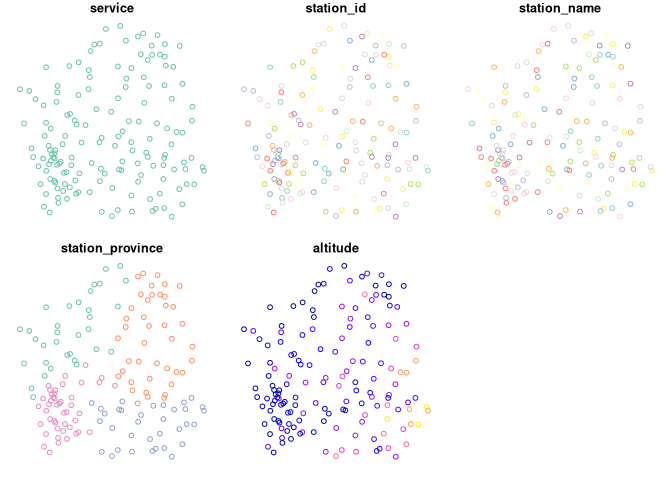
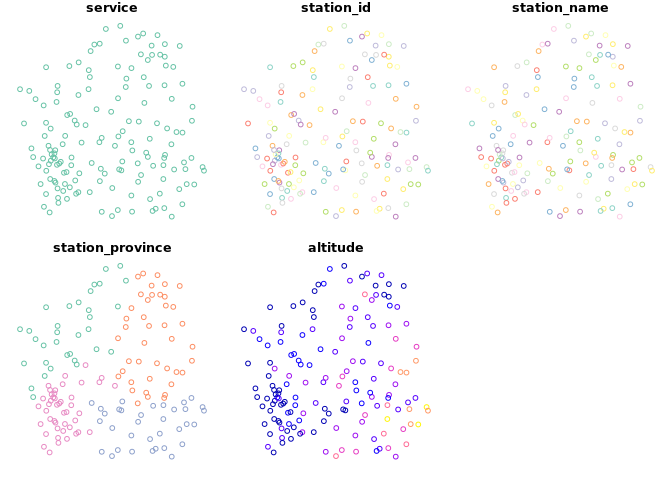
2022-05-24 04:55:33 automatic update

diff --git a/content/software/meteospain/index.md b/content/software/meteospain/index.md
@@ -12,8 +12,8 @@ tags:
 - data
 draft: false
 featured: false
-date: '2022-05-16'
-lastmod: '2022-05-16'
+date: '2022-05-24'
+lastmod: '2022-05-24'
 summary: Access to Spanish Meteorological Stations Services
 model_repository: ''
 data_repository: ''
@@ -23,30 +23,33 @@ links:
   url_source: https://github.com/emf-creaf/meteospain
   url_docs: https://emf-creaf.github.io/meteospain/
 ---
-# meteospain
+meteospain
+==========
 
 [![R-CMD-check](https://github.com/emf-creaf/meteospain/workflows/R-CMD-check/badge.svg)](https://github.com/emf-creaf/meteospain/actions)
 
 `meteospain` aims to offer access to different Spanish meteorological
 stations data in an uniform way.
 
-## Installation
+Installation
+------------
 
 `meteospain` is in CRAN, and can be installed as any other package:
 
-``` r
+``` {.r}
 install.packages('meteospain')
 ```
 
 Also, `meteospain` is in active development. You can install the
 development version from [GitHub](https://github.com/) with:
 
-``` r
+``` {.r}
 # install.packages("remotes")
 remotes::install_github("emf-creaf/meteospain")
 ```
 
-## Services
+Services
+--------
 
 The following meteorological stations services are available:
 
@@ -60,14 +63,15 @@ The following meteorological stations services are available:
 -   [Meteoclimatic](https://www.meteoclimatic.net/), the Spanish
     non-professional meteorological stations network.
 
-## Examples
+Examples
+--------
 
 Access to the services is done with the `get_meteo_from` function,
 providing the name of the service and the options. Each service has a
-dedicated options function to guide through the specifics of each
-service:
+dedicated `*service*_options()` function to guide through the specifics
+of each service:
 
-``` r
+``` {.r}
 library(meteospain)
 
 mg_options <- meteogalicia_options(resolution = 'current_day')
@@ -77,31 +81,33 @@ get_meteo_from('meteogalicia', mg_options)
 #> Consellería de Medio Ambiente, Territorio e Vivenda da Xunta de Galicia como fonte da mesma cada vez 
 #> que as utilice para os usos distintos do particular e privado.
 #> https://www.meteogalicia.gal/web/informacion/notaIndex.action
-#> Simple feature collection with 3680 features and 14 fields
+#> Simple feature collection with 3690 features and 14 fields
 #> Geometry type: POINT
 #> Dimension:     XY
 #> Bounding box:  xmin: -9.178318 ymin: 41.8982 xmax: -6.765224 ymax: 43.734
 #> Geodetic CRS:  WGS 84
-#> # A tibble: 3,680 × 15
-#>    timestamp           service      station_id station_name     station_province altitude temperature min_temperature max_temperature
-#>    <dttm>              <chr>        <chr>      <chr>            <chr>                 [m]        [°C]            [°C]            [°C]
-#>  1 2022-05-15 12:00:00 meteogalicia 10045      Mabegondo        A Coruña               94        18.4            17.8            18.8
-#>  2 2022-05-15 12:00:00 meteogalicia 10046      Marco da Curra   A Coruña              651        12.5            12.0            13.2
-#>  3 2022-05-15 12:00:00 meteogalicia 10047      Pedro Murias     Lugo                   51        22.3            21.9            23.0
-#>  4 2022-05-15 12:00:00 meteogalicia 10048      O Invernadeiro   Ourense              1026        12.1            11.7            12.5
-#>  5 2022-05-15 12:00:00 meteogalicia 10049      Corrubedo        A Coruña               30        17.3            16.8            18.0
-#>  6 2022-05-15 12:00:00 meteogalicia 10050      CIS Ferrol       A Coruña               37        17.8            17.4            18.1
-#>  7 2022-05-15 12:00:00 meteogalicia 10052      Muralla          A Coruña              661        12.1            12.0            12.2
-#>  8 2022-05-15 12:00:00 meteogalicia 10053      Campus Lugo      Lugo                  400        18.2            17.8            18.5
-#>  9 2022-05-15 12:00:00 meteogalicia 10055      Guitiriz-Mirador Lugo                  684        14.1            13.1            14.7
-#> 10 2022-05-15 12:00:00 meteogalicia 10056      Marroxo          Lugo                  645        16.7            15.8            17.4
-#> # … with 3,670 more rows, and 6 more variables: relative_humidity [%], precipitation [L/m^2], wind_direction [°], wind_speed [m/s],
+#> # A tibble: 3,690 × 15
+#>    timestamp           service station_id station_name station_province altitude
+#>    <dttm>              <chr>   <chr>      <chr>        <chr>                 [m]
+#>  1 2022-05-23 03:00:00 meteog… 10045      Mabegondo    A Coruña               94
+#>  2 2022-05-23 03:00:00 meteog… 10046      Marco da Cu… A Coruña              651
+#>  3 2022-05-23 03:00:00 meteog… 10047      Pedro Murias Lugo                   51
+#>  4 2022-05-23 03:00:00 meteog… 10048      O Invernade… Ourense              1026
+#>  5 2022-05-23 03:00:00 meteog… 10049      Corrubedo    A Coruña               30
+#>  6 2022-05-23 03:00:00 meteog… 10050      CIS Ferrol   A Coruña               37
+#>  7 2022-05-23 03:00:00 meteog… 10052      Muralla      A Coruña              661
+#>  8 2022-05-23 03:00:00 meteog… 10053      Campus Lugo  Lugo                  400
+#>  9 2022-05-23 03:00:00 meteog… 10055      Guitiriz-Mi… Lugo                  684
+#> 10 2022-05-23 03:00:00 meteog… 10056      Marroxo      Lugo                  645
+#> # … with 3,680 more rows, and 9 more variables: temperature [°C],
+#> #   min_temperature [°C], max_temperature [°C], relative_humidity [%],
+#> #   precipitation [L/m^2], wind_direction [°], wind_speed [m/s],
 #> #   insolation [h], geometry <POINT [°]>
 ```
 
 Stations info can be accessed with `get_stations_info_from` function:
 
-``` r
+``` {.r}
 get_stations_info_from('meteogalicia', mg_options)
 #> Simple feature collection with 154 features and 5 fields
 #> Geometry type: POINT
@@ -109,28 +115,28 @@ get_stations_info_from('meteogalicia', mg_options)
 #> Bounding box:  xmin: -9.178318 ymin: 41.8982 xmax: -6.765224 ymax: 43.734
 #> Geodetic CRS:  WGS 84
 #> # A tibble: 154 × 6
-#>    service      station_id station_name             station_province altitude             geometry
-#>  * <chr>        <chr>      <chr>                    <chr>                 [m]          <POINT [°]>
-#>  1 meteogalicia 10157      Coruña-Torre de Hércules A Coruña               21 (-8.409202 43.38276)
-#>  2 meteogalicia 10045      Mabegondo                A Coruña               94 (-8.262225 43.24137)
-#>  3 meteogalicia 14003      Punta Langosteira        A Coruña                5 (-8.531179 43.34723)
-#>  4 meteogalicia 10144      Arzúa                    A Coruña              362  (-8.17469 42.93196)
-#>  5 meteogalicia 19005      Guísamo                  A Coruña              175 (-8.276487 43.30799)
-#>  6 meteogalicia 19012      Cespón                   A Coruña               59 (-8.854571 42.67466)
-#>  7 meteogalicia 10095      Sergude                  A Coruña              231 (-8.461246 42.82283)
-#>  8 meteogalicia 10800      Camariñas                A Coruña                5 (-9.178318 43.12445)
-#>  9 meteogalicia 19001      Rus                      A Coruña              134 (-8.685357 43.15616)
-#> 10 meteogalicia 10143      Cariño                   A Coruña                5   (-7.863354 43.734)
-#> # … with 144 more rows
+#>    service      station_id station_name             station_province altitude
+#>  * <chr>        <chr>      <chr>                    <chr>                 [m]
+#>  1 meteogalicia 10157      Coruña-Torre de Hércules A Coruña               21
+#>  2 meteogalicia 10045      Mabegondo                A Coruña               94
+#>  3 meteogalicia 14003      Punta Langosteira        A Coruña                5
+#>  4 meteogalicia 10144      Arzúa                    A Coruña              362
+#>  5 meteogalicia 19005      Guísamo                  A Coruña              175
+#>  6 meteogalicia 19012      Cespón                   A Coruña               59
+#>  7 meteogalicia 10095      Sergude                  A Coruña              231
+#>  8 meteogalicia 10800      Camariñas                A Coruña                5
+#>  9 meteogalicia 19001      Rus                      A Coruña              134
+#> 10 meteogalicia 10143      Cariño                   A Coruña                5
+#> # … with 144 more rows, and 1 more variable: geometry <POINT [°]>
 ```
 
-Returned objects are spatial objects (thanks to the
-[`sf`](https://r-spatial.github.io/sf/) R package), so we can plot the
-results directly.
+Returned objects are spatial objects (using the
+[`sf`](https://r-spatial.github.io/sf/) R package), so results can be
+plotted directly:
 
-``` r
+``` {.r}
 library(sf)
-#> Linking to GEOS 3.9.1, GDAL 3.4.0, PROJ 8.2.0; sf_use_s2() is TRUE
+#> Linking to GEOS 3.9.0, GDAL 3.2.1, PROJ 7.2.1
 mg_options <- meteogalicia_options(resolution = 'daily', start_date = as.Date('2021-04-25'))
 plot(get_meteo_from('meteogalicia', mg_options))
 #> A información divulgada a través deste servidor ofrécese gratuitamente aos cidadáns para que poida ser 
@@ -138,12 +144,14 @@ plot(get_meteo_from('meteogalicia', mg_options))
 #> Consellería de Medio Ambiente, Territorio e Vivenda da Xunta de Galicia como fonte da mesma cada vez 
 #> que as utilice para os usos distintos do particular e privado.
 #> https://www.meteogalicia.gal/web/informacion/notaIndex.action
-#> Warning: plotting the first 9 out of 16 attributes; use max.plot = 16 to plot all
+#> Warning: plotting the first 9 out of 16 attributes; use max.plot = 16 to plot
+#> all
 ```
 
 {{< figure src="README-plot_stations-1.png" class="single-image" >}}
 
-``` r
+``` {.r}
+
 plot(get_stations_info_from('meteogalicia', mg_options))
 ```
 
